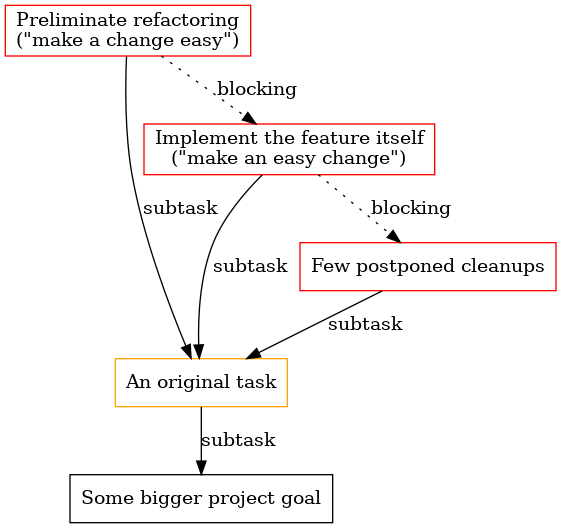
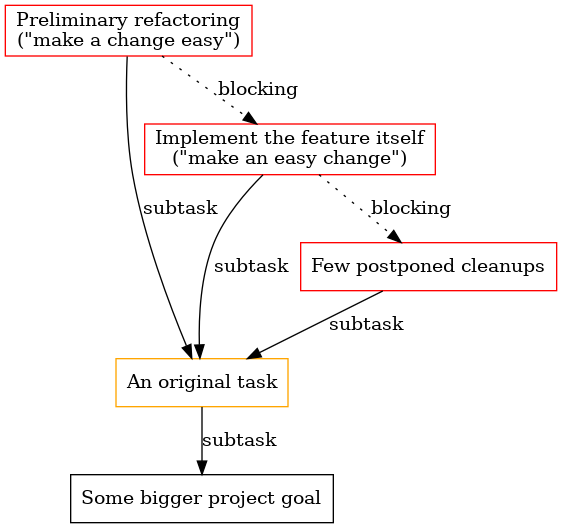
edits

diff --git a/_drafts/fractals-vs-lists.md b/_drafts/fractals-vs-lists.md
@@ -38,7 +38,7 @@ Much bad, need to fix it!
 ![We're in the fractal trap!](/images/fractals-vs-lists/4.png)
 
 Of course, this isn't a rant against refactoring or tests!
-They are truly needed, especially in complex and aged codebases.
+They are truly needed, especially in complex and aged code bases.
 I rant against the way we've used to deal with tasks.
 
 ![Sierpinski triangle](/images/fractals-vs-lists/Sierpinski_triangle.svg)
@@ -58,14 +58,14 @@ But how do we usually deal with such a kind of problem?
 
 The most naive approach to handle this problem is a simple ignorance.
 Is each task growing in size?
-Ok, let's deal with it.
+OK, let's deal with it.
 Just keep going until the final goal is achieved.
 
 Alas, by keeping all substeps in the same task we make them quite opaque.
 _Something_ is happening in the task, and it will be finished _someday_.
 
 Whether it's fine or not strongly depends on your working environment and team agreements.
-For example, let's imagine that your project has a strict delivering policy.
+Say, imagine that your project has a strict delivering policy.
 You have to deliver all your code at once, because of a rigid "task lifecycle".
 This means you have to roll it out only after completing the last substep.
 How long will your feedback cycle become?
@@ -119,7 +119,7 @@ Let me introduce a _possible_ way to do it.
 
 Because of the task-oriented nature of most task-tracking tools, the relations between these tasks are second-class citizens.
 How can you spot the fractal structure and efficiently work with it when the only thing you get is a big pile of tickets?
-Therefore, we should try to visualise this tree (tree structure is also a fractal) and introduce our dependencies as first-class citizens.
+Therefore, we should try to visualize this tree (tree structure is also a fractal) and introduce our dependencies as first-class citizens.
 
 Let me say right from the start: this post is not about any kind of "Gantt tool".
 Yes, they provide some kind of dependency structure, but they're focused on very different things (duration, "resources", "materials", large scope) and provide a very heavyweight workflow.
@@ -137,7 +137,7 @@ To improve your _focus_, you _hide_ other subtasks - they are not needed at the 
 
 ![focus on the first subtask](/images/fractals-vs-lists/t2.png)
 
-At first glance, this step appears to be simple, but when you dig into it, it <strike>suddenly</strike> expectedly grows in size.
+At first glance, this step appears to be simple, but when you dig into it, it <strike>suddenly</strike> grows in size.
 You reflect these changes in your tracker by adding new subtasks.
 In your task tracker, it's a quick and easy operation.
 
@@ -176,7 +176,7 @@ To reflect your decision, you move one of your refactoring subtasks into the "Fe
 
 ![subtask moved](/images/fractals-vs-lists/t5.png)
 
-Then you've zoomed into the "Preliminate refactoring" again.
+Then you've zoomed into the "Preliminary refactoring" again.
 It's become simpler than before because the "Migrate config files" subtask doesn't block it anymore.
 
 ![zoomed back to refactoring](/images/fractals-vs-lists/t6.png)
@@ -224,9 +224,8 @@ On the other hand, this could happen to any task tracker, right?
 All of these issues could be mitigated with a good tool.
 But not the last one!
 
-**There are no such tools**.
-At least, among well known ones.
-I've looked at tens (or even maybe hundreds) tools, and none of them is close enough to the described functionality.
+**Lack of tools**.
+I've looked at tens of the most popular task management tools, and none of them is close enough to the described functionality.
 I've even had to [create one](https://github.com/ahitrin/SiebenApp) by myself.
 It allows for understanding the concepts described here but still lacks a lot of important features.
 But if you only need to evaluate the ideas I've described here, it may help you.
@@ -240,18 +239,6 @@ At last, we have the answer to the question from the heading.
 **Why don't we have such tools?** -- Because the most of us is sticked to 
 
 I sincerely hope that after some time we could have mature and flexible tree-based task trackers.
-
----
-Я надеюсь, что со временем всё же появятся подобные практики и инструменты, приносящие пользу всем нам.
-
-Замечу лишь, что мой опыт работы с Sieben дал один очень важный урок.
-Практически у любой задачи можно выделить маленькую и более простую подзадачу, решение которой будет приближать вас к цели.
-
-https://blog.jbrains.ca/permalink/remind-yourself-to-schedule-x
-
-**N.B.**: Certified Monstrosity Manager
-
----
 
 ## Aknowledges
 
